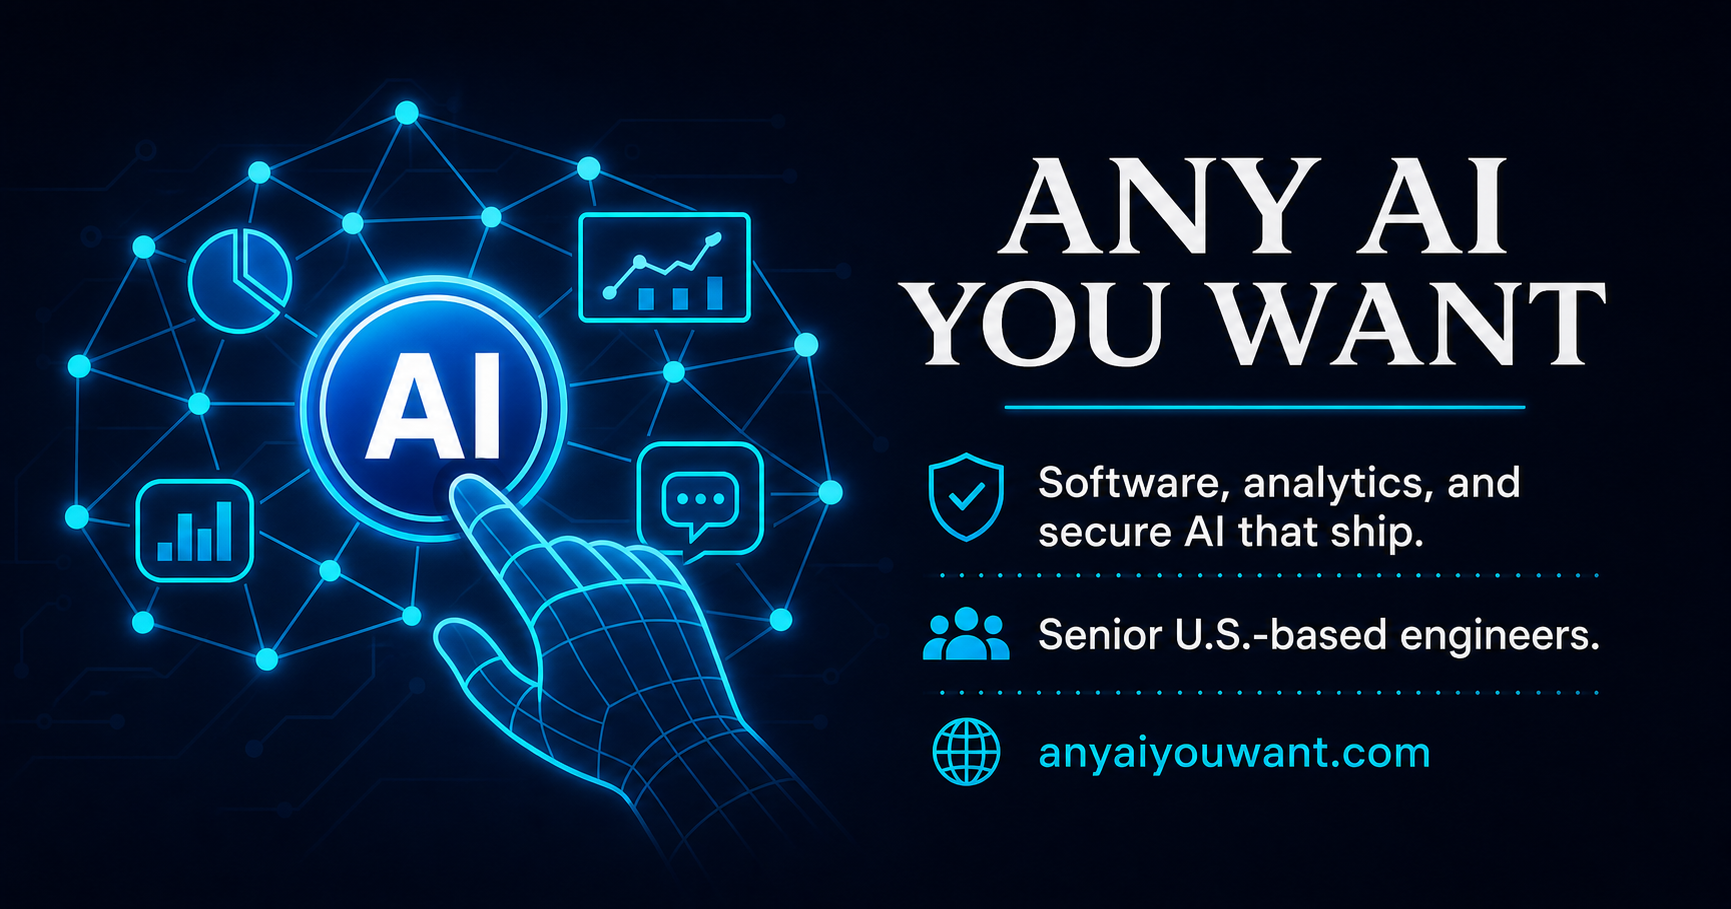
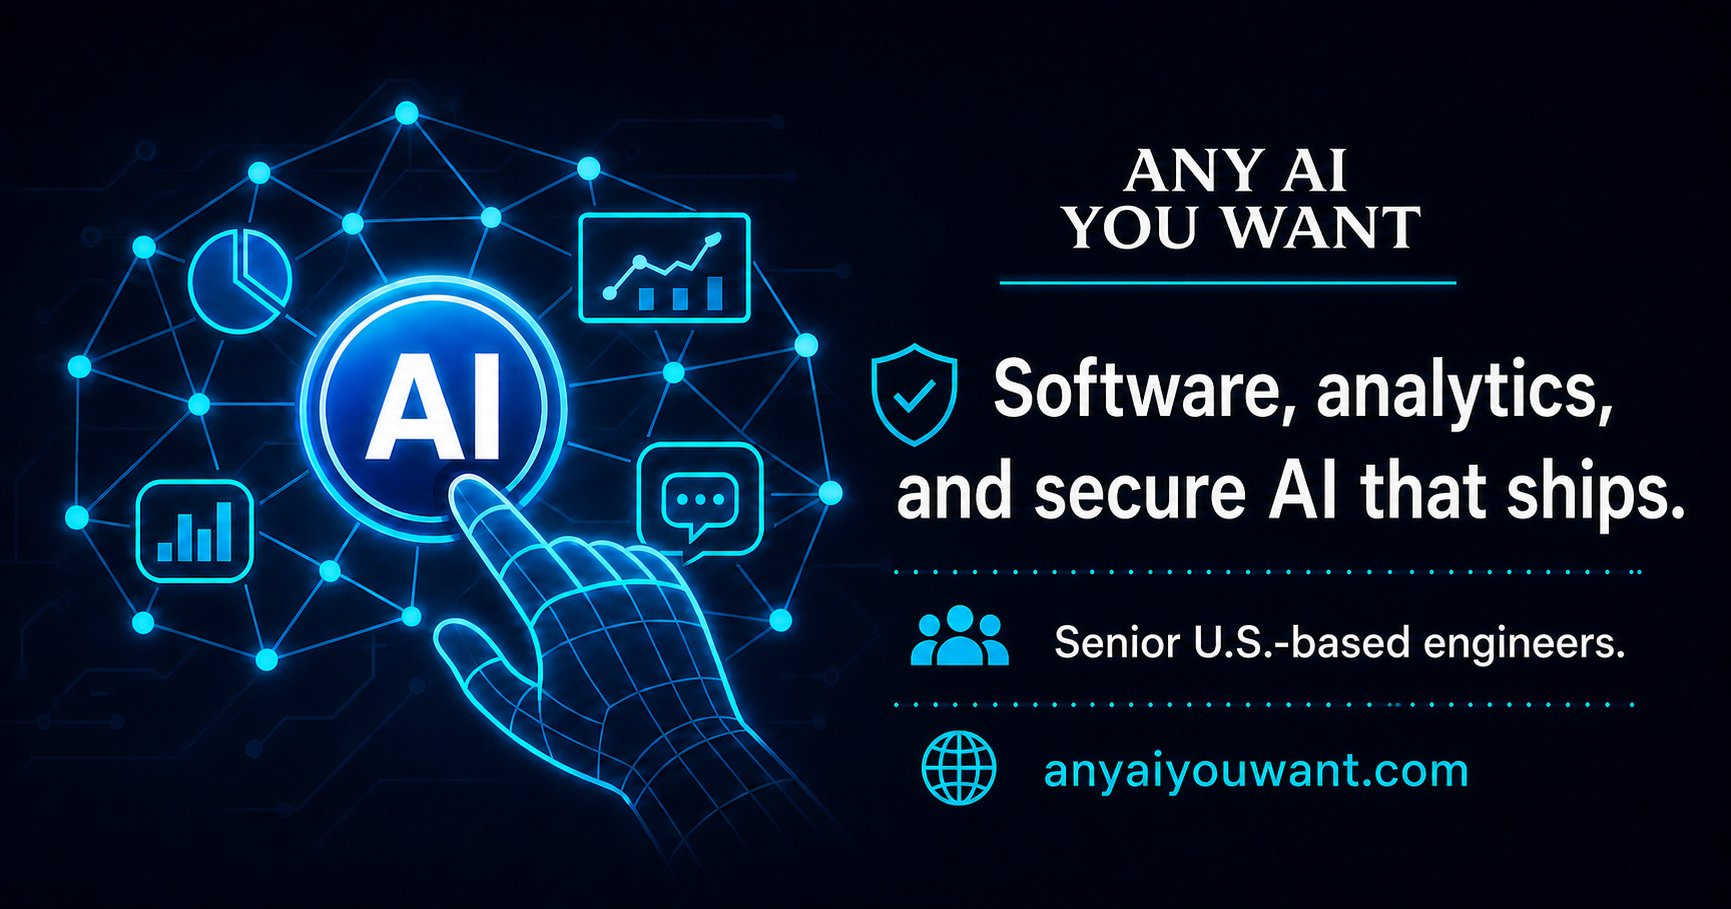
Refine brand card hierarchy and tagline

diff --git a/components/hero.tsx b/components/hero.tsx
@@ -19,7 +19,7 @@ export function Hero() {
             <MapPin size={13} className="text-accent" /> All engineering work is performed by U.S.-based engineers
           </motion.div>
           <motion.h1 initial="hidden" animate="show" variants={fadeUp} custom={1} className="mt-6 text-4xl md:text-6xl font-semibold tracking-[-0.045em] leading-[1.02]">
-            Software, analytics, and <span className="text-gradient">secure AI that ship.</span>
+            Software, analytics, and <span className="text-gradient">secure AI that ships.</span>
           </motion.h1>
           <motion.p initial="hidden" animate="show" variants={fadeUp} custom={2} className="mt-6 text-lg md:text-xl text-muted max-w-2xl leading-relaxed">
             Senior engineers handle discovery and implementation, so the person learning your business can also write the code. Bring us a one-day problem or a multi-quarter platform.

diff --git a/app/layout.tsx b/app/layout.tsx
@@ -84,13 +84,13 @@ export const metadata: Metadata = {
     siteName: "Any AI You Want",
     locale: "en_US",
     type: "website",
-    images: [{ url: "/og.png", width: 1732, height: 917, alt: "Any AI You Want — Software, analytics, and secure AI that ship" }],
+    images: [{ url: "/og.png", width: 1732, height: 917, alt: "Any AI You Want — Software, analytics, and secure AI that ships" }],
   },
   twitter: {
     card: "summary_large_image",
     title: "Any AI You Want — Software, Analytics & Secure AI",
     description:
-      "Senior U.S.-based engineers. Software, analytics, real machine learning, and secure AI that ship.",
+      "Senior U.S.-based engineers. Software, analytics, real machine learning, and secure AI that ships.",
     creator: "@dSaulJameson",
     images: ["/og.png"],
   },
